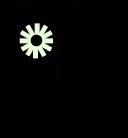
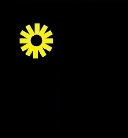
level

Changed region(s): [[0.125, 0.1449, 0.4375, 0.4348]]

diff --git a/web_interface/app.py b/web_interface/app.py
@@ -569,20 +569,25 @@ def DisplayBatteryLevel():
     elif (batteryLevelNorm>100):
     	batteryLevelNorm = 100
     
-    for y in range(10):
-    	draw.rectangle([(60, 25+y*5), (120, 30+y*5)], fill = "GREEN", outline = "BLACK")
     
     
-    draw.rectangle([(0, 100), (101, 121)], fill = None, outline = "GREEN")
-    draw.rectangle([(1, 101), (batteryLevelNorm, 120)], fill = "GREEN", outline = None)
+    #draw.rectangle([(0, 100), (101, 121)], fill = None, outline = "GREEN")
+    #draw.rectangle([(1, 101), (batteryLevelNorm, 120)], fill = "GREEN", outline = None)
 
     if (batteryLevelNorm>140):
-        draw.text((5, 104), 'Charging', fill = "BLUE", font = font)
+        draw.text((0, 110), 'Charging ' + str(batteryLevel), fill = "BLUE", font = font)
     elif (batteryLevelNorm<0):
-        draw.text((5, 104), 'Not Connected ' +  str(batteryLevel), fill = "RED", font = font)
+        draw.text((5, 110), 'Not Connected ' +  str(batteryLevel), fill = "RED", font = font)
     else:
-        draw.text((5, 104), str(batteryLevel) + '%', fill = "BLACK", font = font)
+        draw.text((5, 110), str(batteryLevel) + '%', fill = "WHITE", font = font)
 
+    bl = 0
+    for y in range(10, 0, -1):
+    	if (bl<=batteryLevelNorm-10):
+    		draw.rectangle([(60, 25+y*10), (120, 30+y*10)], fill = "YELLOW", outline = "BLACK")
+    	bl = bl + 10
+    	
+    	
     OLED.Display_Image(image)
 
 
